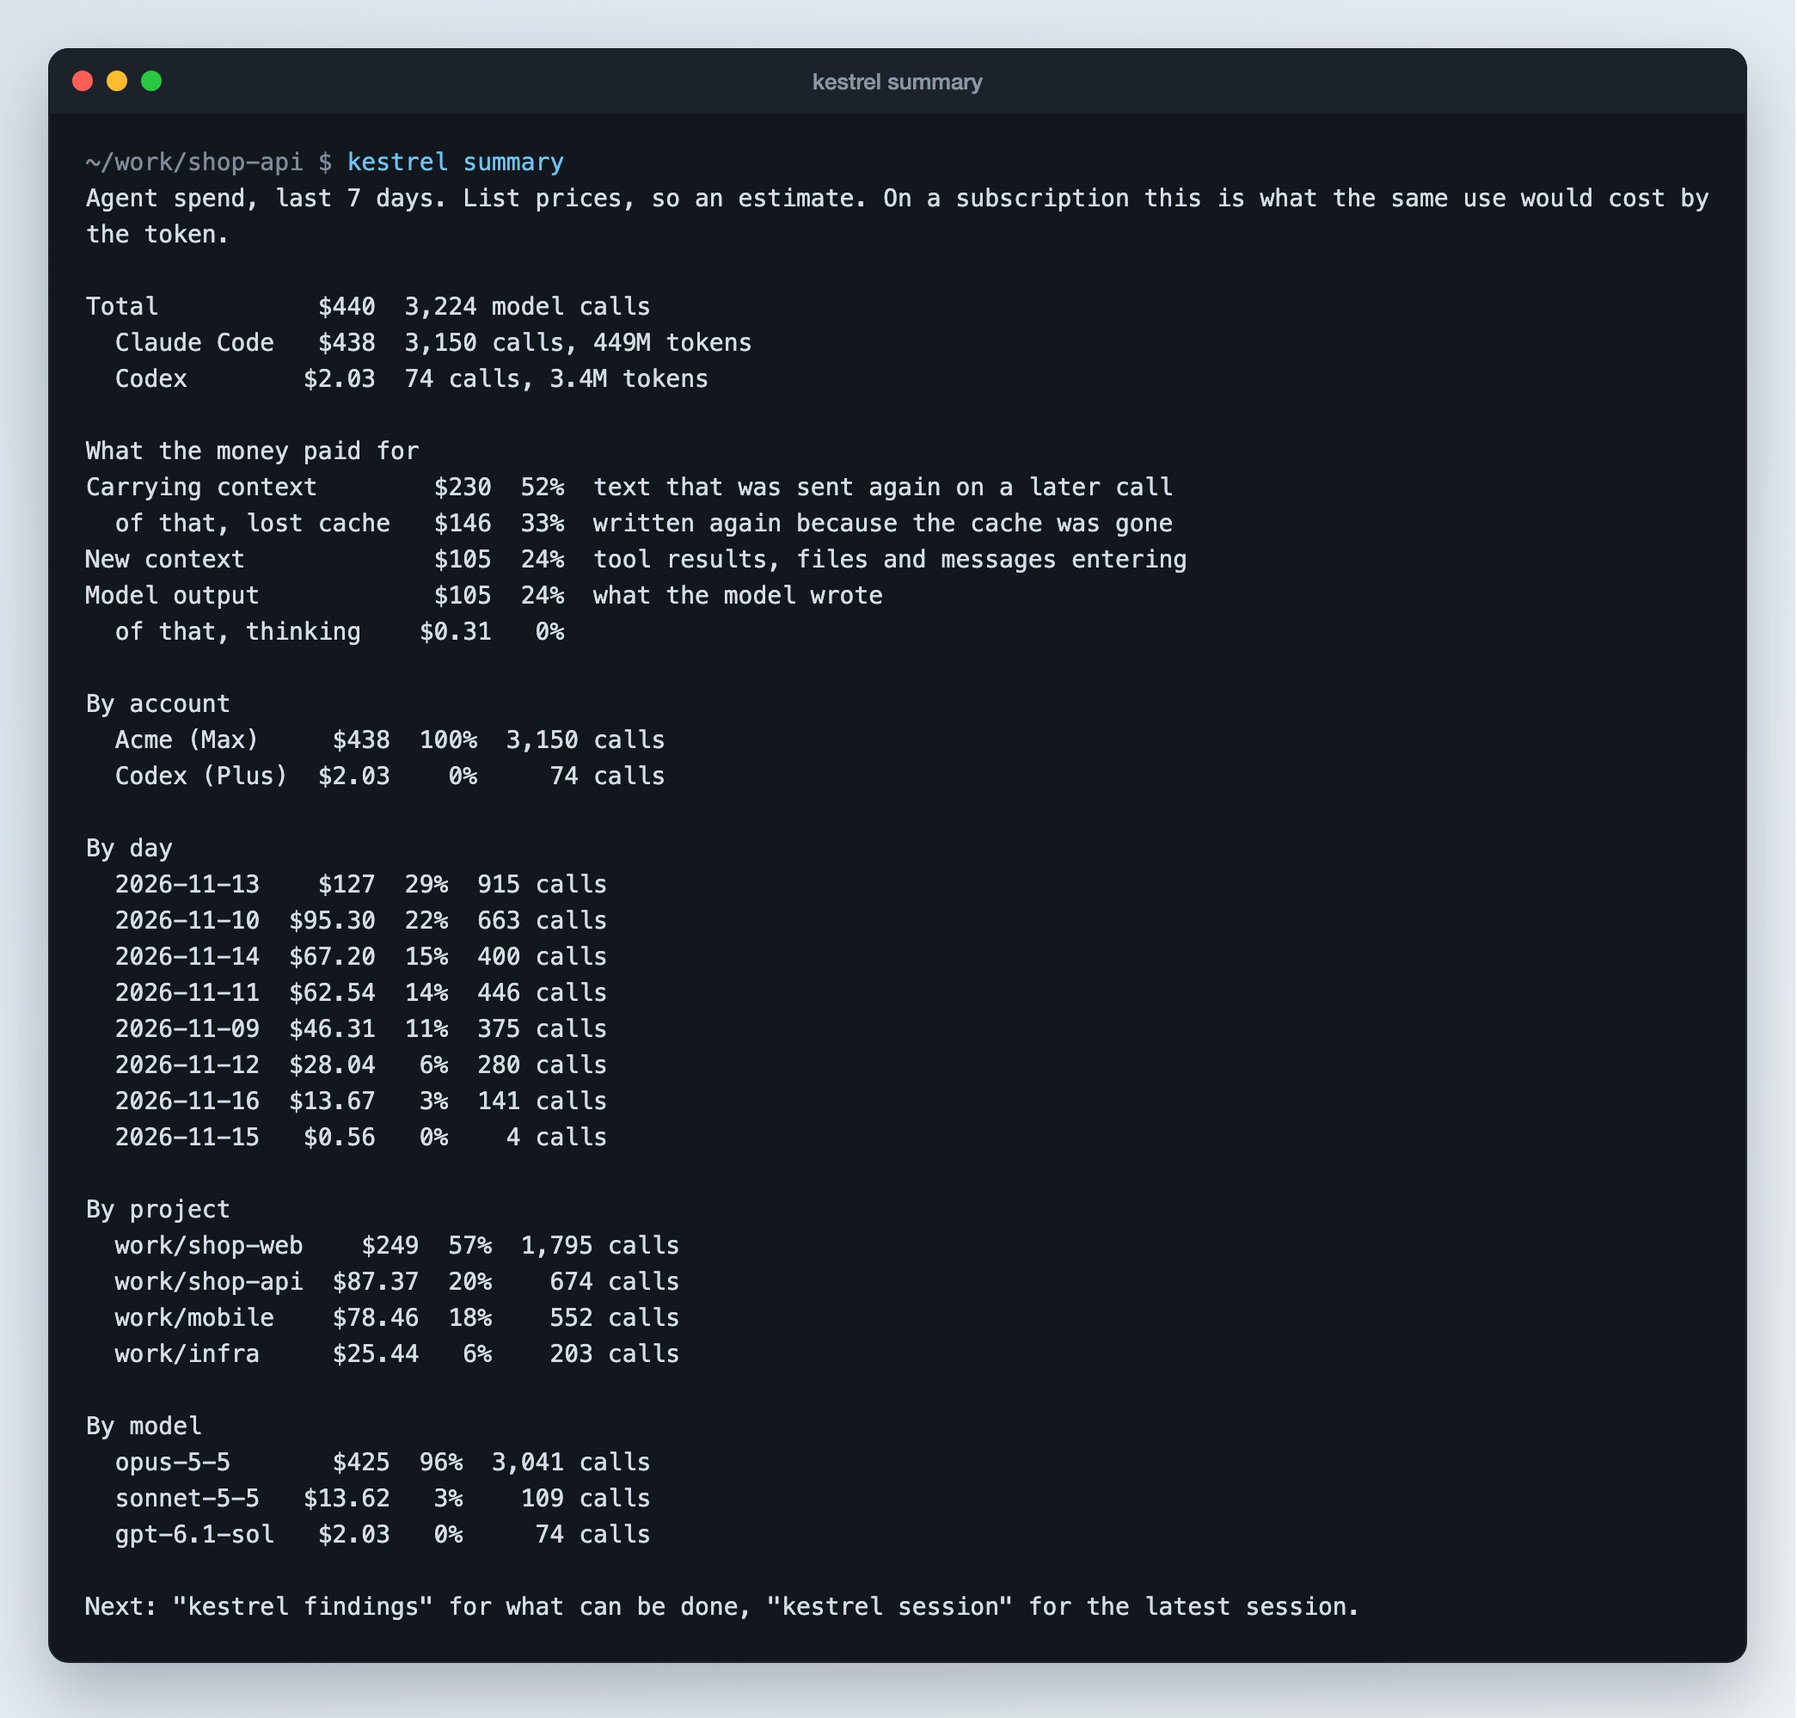
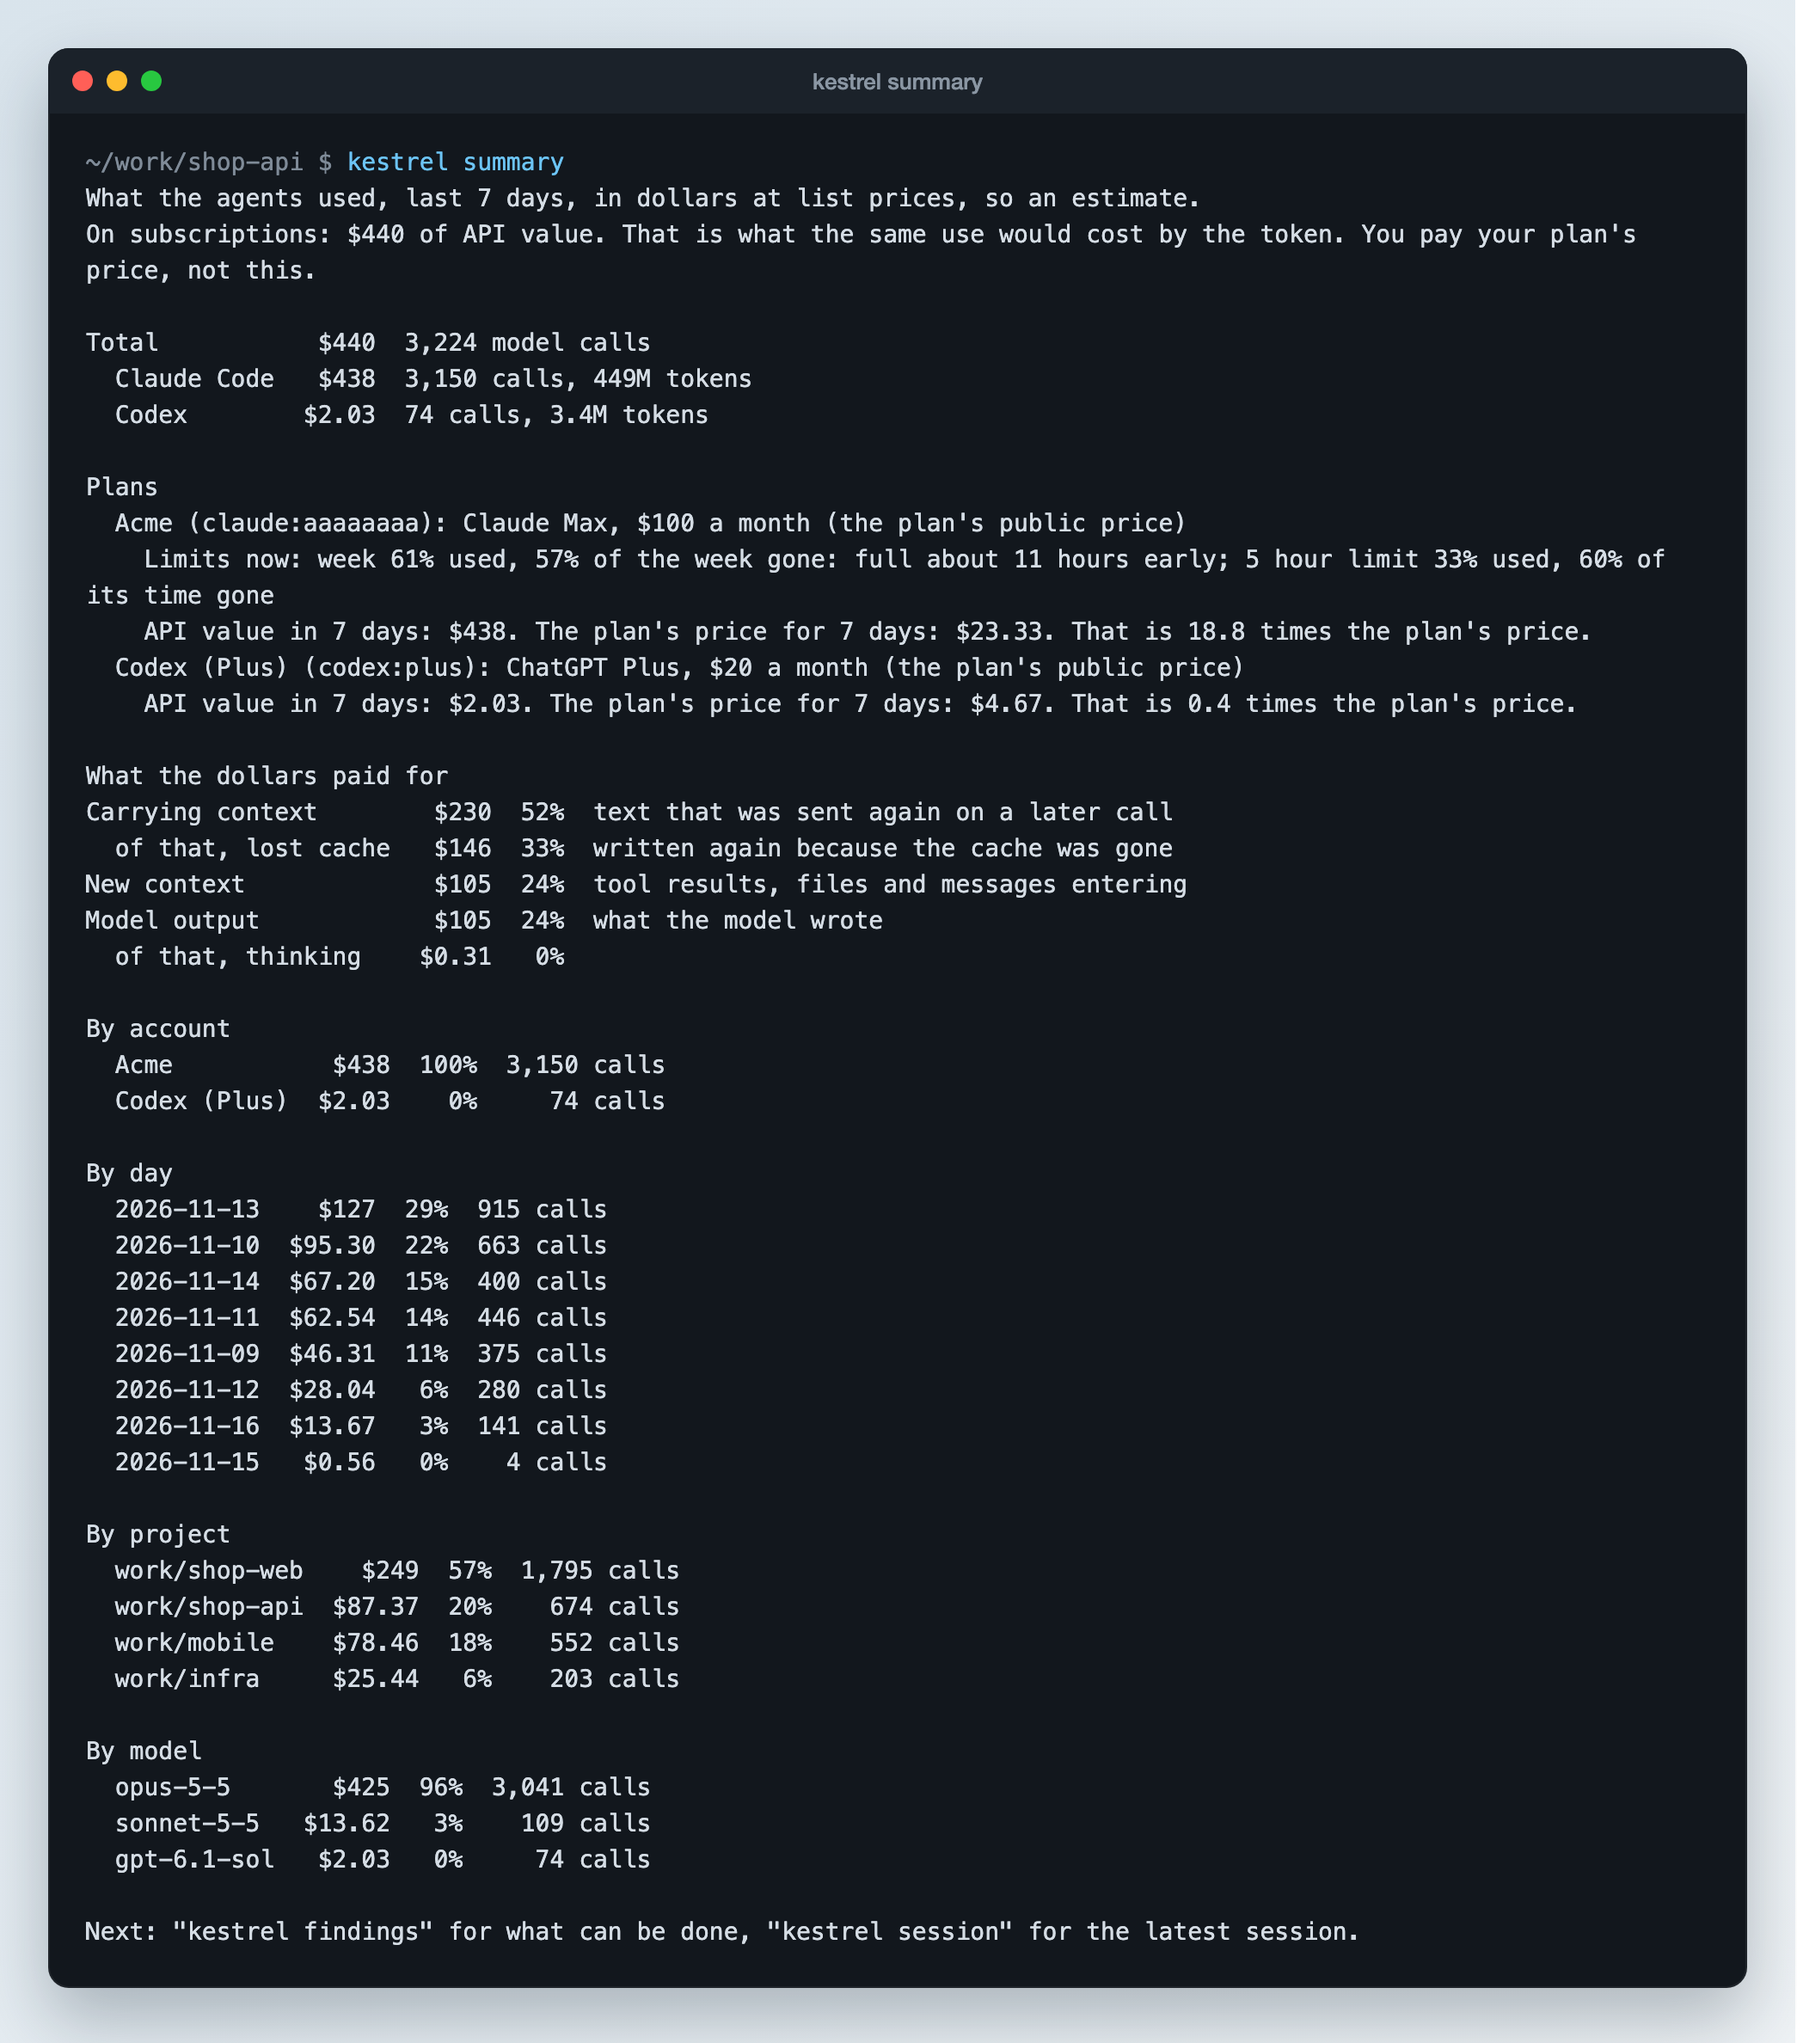
Kestrel 0.2.0: API value against the plan's price, and findings with their fixes
Version 0.2.0 in the manifests and server.json, which points the MCP Registry
at the new release file. The README screenshots show the new words.

diff --git a/README.md b/README.md
@@ -6,7 +6,7 @@ Kestrel shows what the AI coding agents on your machine spend, and what the spen
 
 The project is called Kestrel. Its command is `kestrel`, and its folder on your machine is `~/.kestrel`.
 
-Status: version 0.1.0, started on 2026-11-12. So far it has run on macOS only. No dependencies, Node 22 or newer. Made by Widal, Inc. Free and open source under the MIT licence (see "Licence").
+Status: version 0.2.0, started on 2026-11-12. So far it has run on macOS only. No dependencies, Node 22 or newer. Made by Widal, Inc. Free and open source under the MIT licence (see "Licence").
 
 ## What it looks like
 
